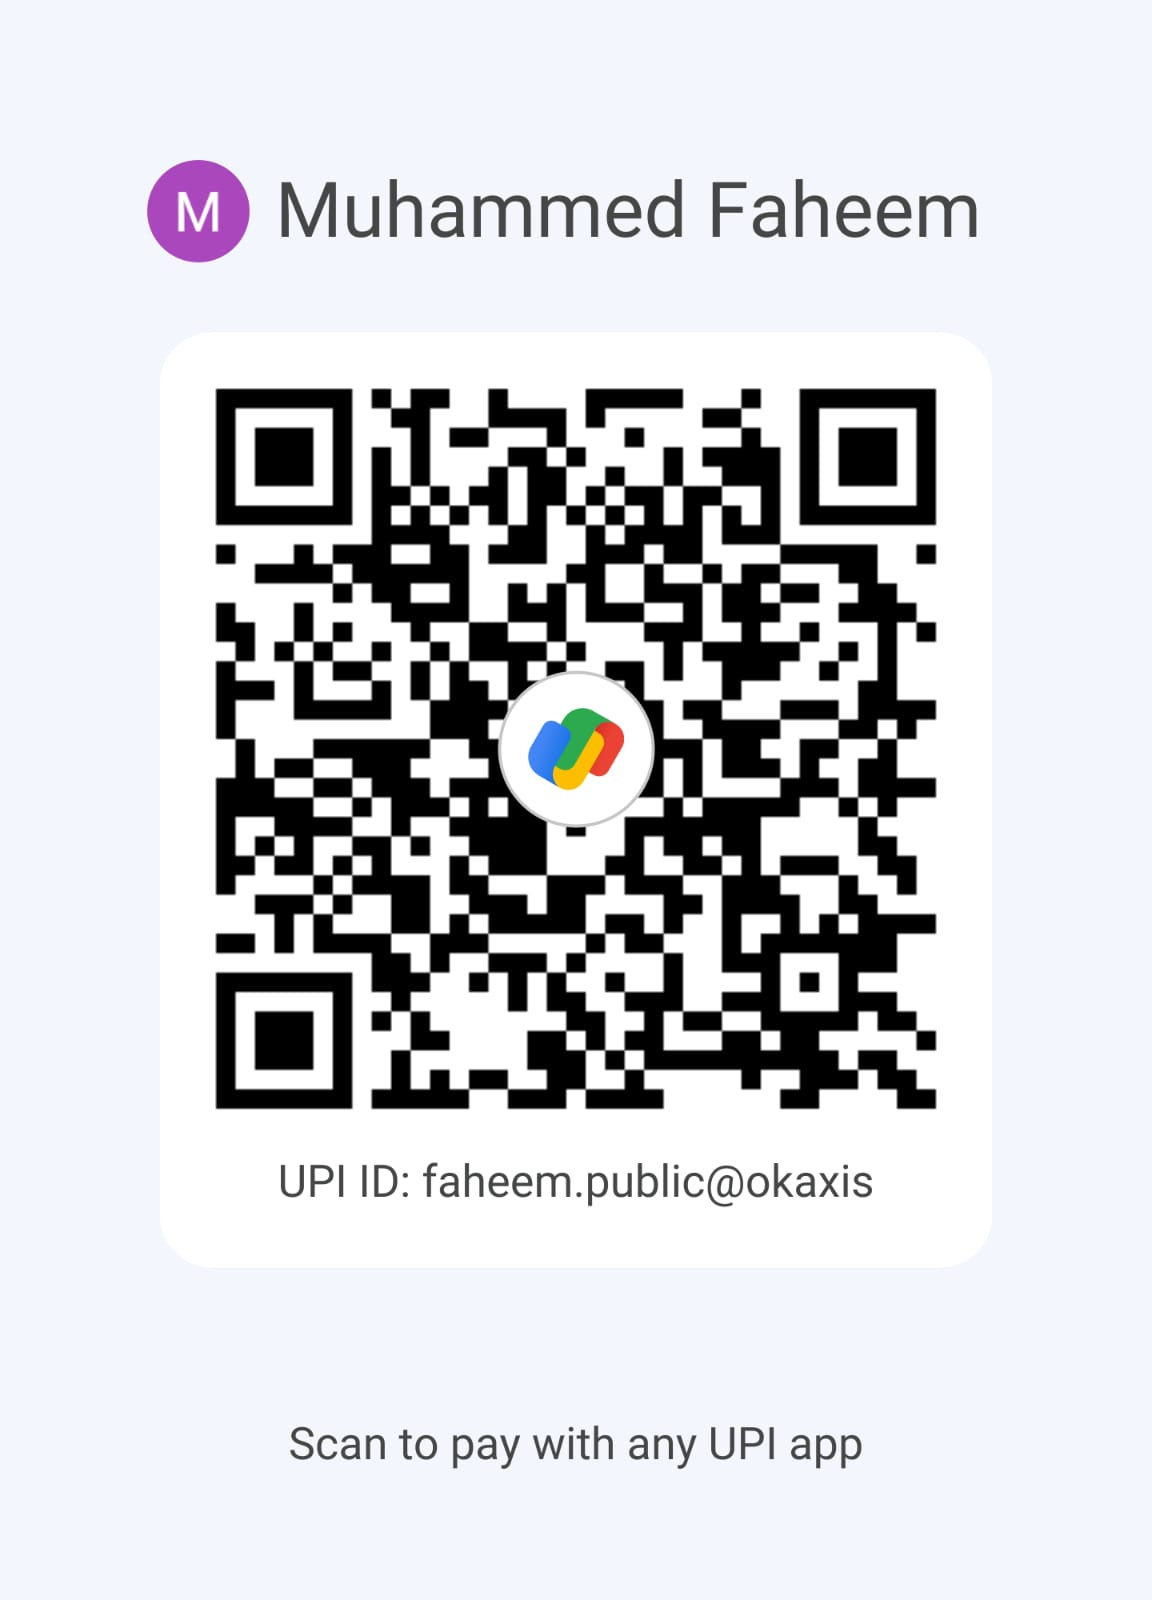
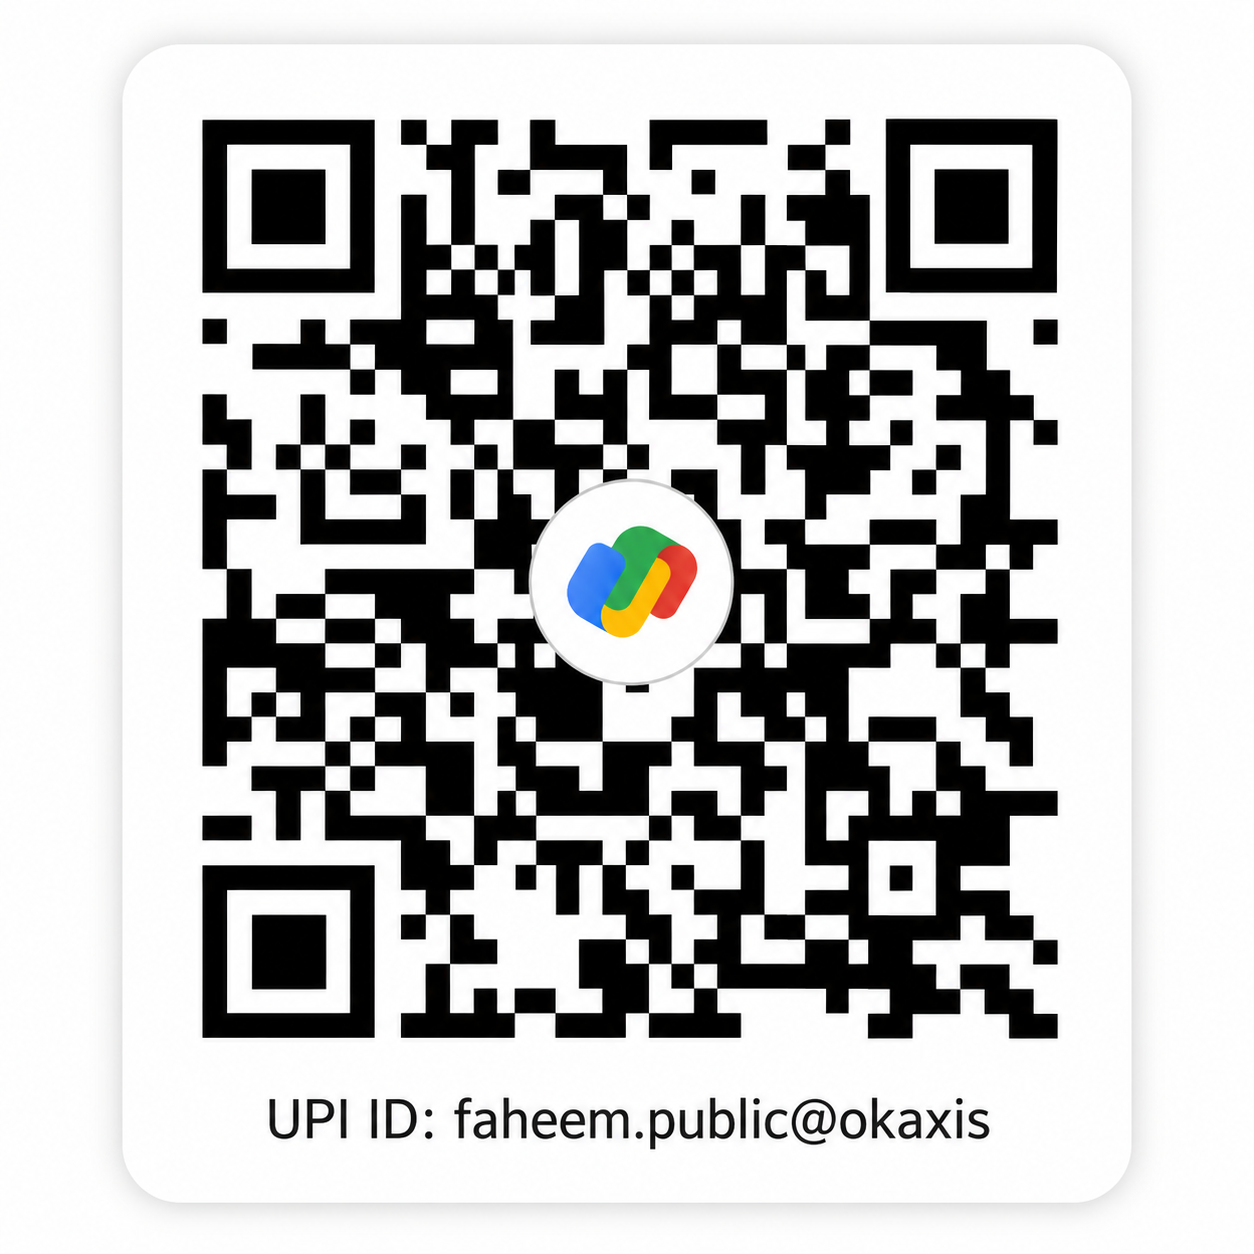
Update site

diff --git a/support.html b/support.html
@@ -93,9 +93,9 @@
     <!-- SUPPORT MAIN -->
     <section class="section support support-upi">
       <div class="container">
-        <div class="support-page__grid">
+        <div class="support__inner">
 
-          <!-- Left: why support -->
+          <!-- Left: why support (bank details removed) -->
           <div class="fade-up">
             <div class="support__eyebrow">Why Support</div>
             <h2 class="support__title">Help Keep Islamic Education Free</h2>
@@ -129,34 +129,28 @@
             </div>
           </div>
 
-          <!-- Right: QR card only -->
-          <div class="fade-up delay-2 support-qr-card">
-            <div class="support-qr-card__inner">
-              <div class="support-qr-card__header">
-                <img src="assets/logo/usullearning-logo.svg" alt="" class="support-qr-card__logo" aria-hidden="true" />
-                <div class="support-qr-card__title">Support Usul Learning</div>
-                <div class="support-qr-card__subtitle">Scan the QR code with any UPI app</div>
-              </div>
+          <!-- Right: original dark emerald QR card -->
+          <div class="support__visual fade-up delay-2 support-qr">
+            <div class="support-qr__top">
+              <img src="assets/logo/usullearning-logo.svg" alt="" class="support-qr-logo" aria-hidden="true" />
+              <div class="support-qr__tagline">Scan the QR code with any UPI app</div>
+            </div>
 
-              <div class="support-qr-card__qr-wrap">
-                <img
-                  src="assets/images/qr-code.jpg"
-                  loading="lazy"
-                  alt="UPI QR Code for Usul Learning — scan to pay via any UPI app"
-                  class="support-qr-card__qr-img"
-                />
-              </div>
+            <div class="support-qr__img-wrap">
+              <img
+                src="assets/images/qr-code.jpg"
+                loading="lazy"
+                alt="UPI QR Code for Usul Learning — scan to pay via any UPI app"
+                class="support-qr__img"
+              />
+            </div>
 
-              <div class="support-qr-card__footer">
-                <div class="support-qr-card__upi-label">UPI ID</div>
-                <div class="support-qr-card__upi-id">faheem.public@okaxis</div>
-                <p class="support-qr-card__note">
-                  Your contribution is entirely voluntary and deeply appreciated.<br />
-                  <em>Jazākallāhu Khayran.</em>
-                </p>
-                <p class="support-qr-card__sadaqah">
-                  Contributions are voluntary Sadaqah and do not constitute Zakat.
-                </p>
+            <div class="support-qr__bottom">
+              <div class="support-qr__scan-label">UPI ID</div>
+              <div class="support-qr__upi-id">faheem.public@okaxis</div>
+              <div class="support-qr__note">
+                Your contribution is entirely voluntary<br />and deeply appreciated. Jazākallāhu Khayran.
+                <br /><small class="support-sadaqah">Contributions are voluntary Sadaqah and do not constitute Zakat.</small>
               </div>
             </div>
           </div>

diff --git a/styles.css b/styles.css
@@ -1133,119 +1133,6 @@ p  { font-size: clamp(0.875rem, 3.5vw, 1rem); line-height: 1.8; color: var(--tex
 .support-sadaqah { opacity: 0.6; font-size: 0.8em; }
 
 
-/* ── Support page — QR-only redesign ─────────────────────────── */
-
-/* Two-column grid on desktop, single column on mobile */
-.support-page__grid {
-  display: grid;
-  grid-template-columns: 1fr;
-  gap: 48px;
-  align-items: center;
-}
-@media (min-width: 768px) {
-  .support-page__grid {
-    grid-template-columns: 1fr 1fr;
-    gap: 64px;
-  }
-}
-
-/* QR card — centred white card with shadow */
-.support-qr-card {
-  display: flex;
-  justify-content: center;
-  align-items: center;
-}
-.support-qr-card__inner {
-  background: white;
-  border: 1px solid var(--border-soft);
-  border-radius: var(--radius-md);
-  padding: 36px 32px;
-  text-align: center;
-  max-width: 340px;
-  width: 100%;
-  box-shadow: 0 4px 32px rgba(10,22,40,0.07);
-}
-.support-qr-card__header {
-  margin-bottom: 28px;
-}
-.support-qr-card__logo {
-  height: 40px;
-  width: auto;
-  margin: 0 auto 14px;
-  display: block;
-  /* SVG is light-coloured for dark backgrounds — invert for white card */
-  filter: brightness(0) saturate(100%) invert(15%) sepia(30%) saturate(600%) hue-rotate(150deg) brightness(90%);
-  opacity: 0.65;
-}
-.support-qr-card__title {
-  font-family: var(--font-display);
-  font-size: 1.3rem;
-  font-weight: 600;
-  color: var(--ink);
-  letter-spacing: 0.01em;
-  margin-bottom: 6px;
-}
-.support-qr-card__subtitle {
-  font-size: 0.8rem;
-  color: var(--text-muted, #6b7280);
-  font-weight: 400;
-  letter-spacing: 0.02em;
-}
-
-/* QR image wrapper — white background, precise centering */
-.support-qr-card__qr-wrap {
-  display: flex;
-  justify-content: center;
-  align-items: center;
-  background: #fff;
-  border: 1px solid var(--border-soft, #e5e0d6);
-  border-radius: 10px;
-  padding: 16px;
-  margin: 0 auto 24px;
-  width: fit-content;
-}
-.support-qr-card__qr-img {
-  width: 200px;
-  height: 200px;
-  object-fit: contain;
-  display: block;
-}
-
-/* QR card footer text */
-.support-qr-card__footer {
-  border-top: 1px solid var(--border-soft, #e5e0d6);
-  padding-top: 20px;
-}
-.support-qr-card__upi-label {
-  font-size: 0.68rem;
-  font-weight: 600;
-  letter-spacing: 0.18em;
-  text-transform: uppercase;
-  color: var(--gold, #b8973a);
-  margin-bottom: 6px;
-}
-.support-qr-card__upi-id {
-  font-family: monospace;
-  font-size: 1rem;
-  color: var(--ink);
-  letter-spacing: 0.04em;
-  font-weight: 500;
-  margin-bottom: 16px;
-}
-.support-qr-card__note {
-  font-size: 0.82rem;
-  color: var(--text-muted, #6b7280);
-  line-height: 1.6;
-  margin-bottom: 8px;
-}
-.support-qr-card__sadaqah {
-  font-size: 0.72rem;
-  color: var(--text-muted, #6b7280);
-  opacity: 0.65;
-  line-height: 1.5;
-  font-style: italic;
-}
-
 /* ── legal pages (privacy, terms, support-policy) ────────────── */
 
 .legal-section { background: var(--cream); }
